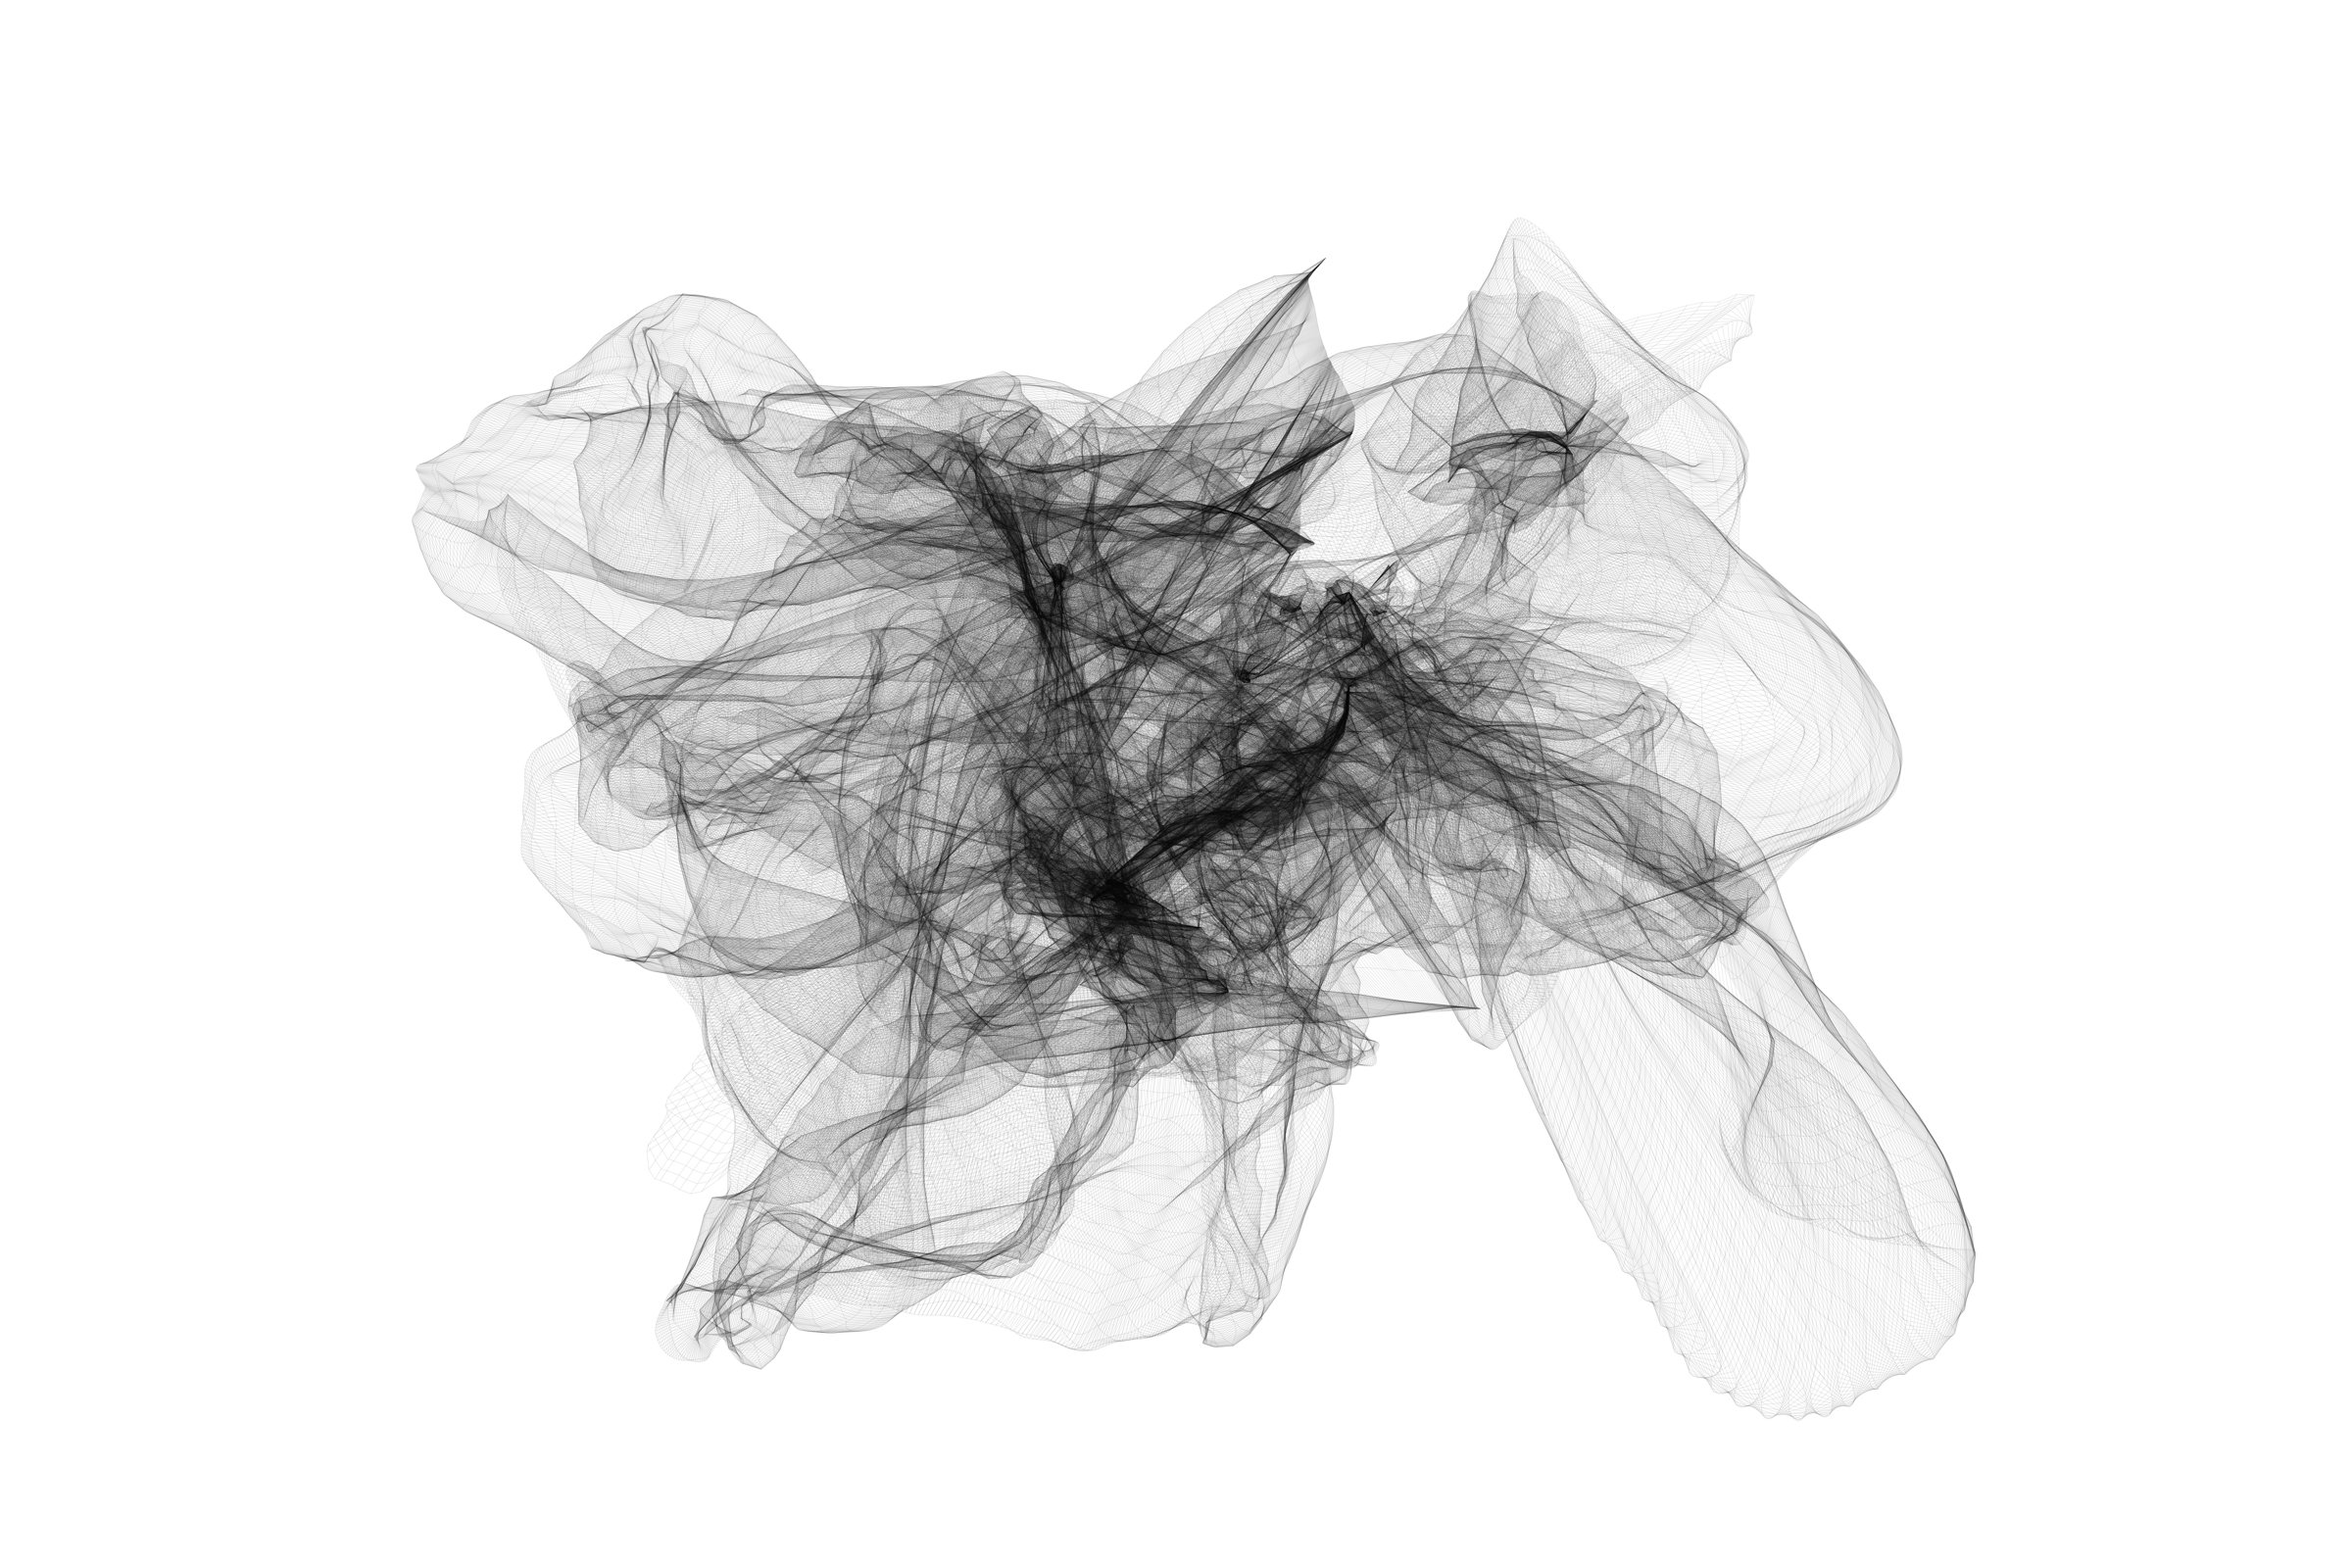
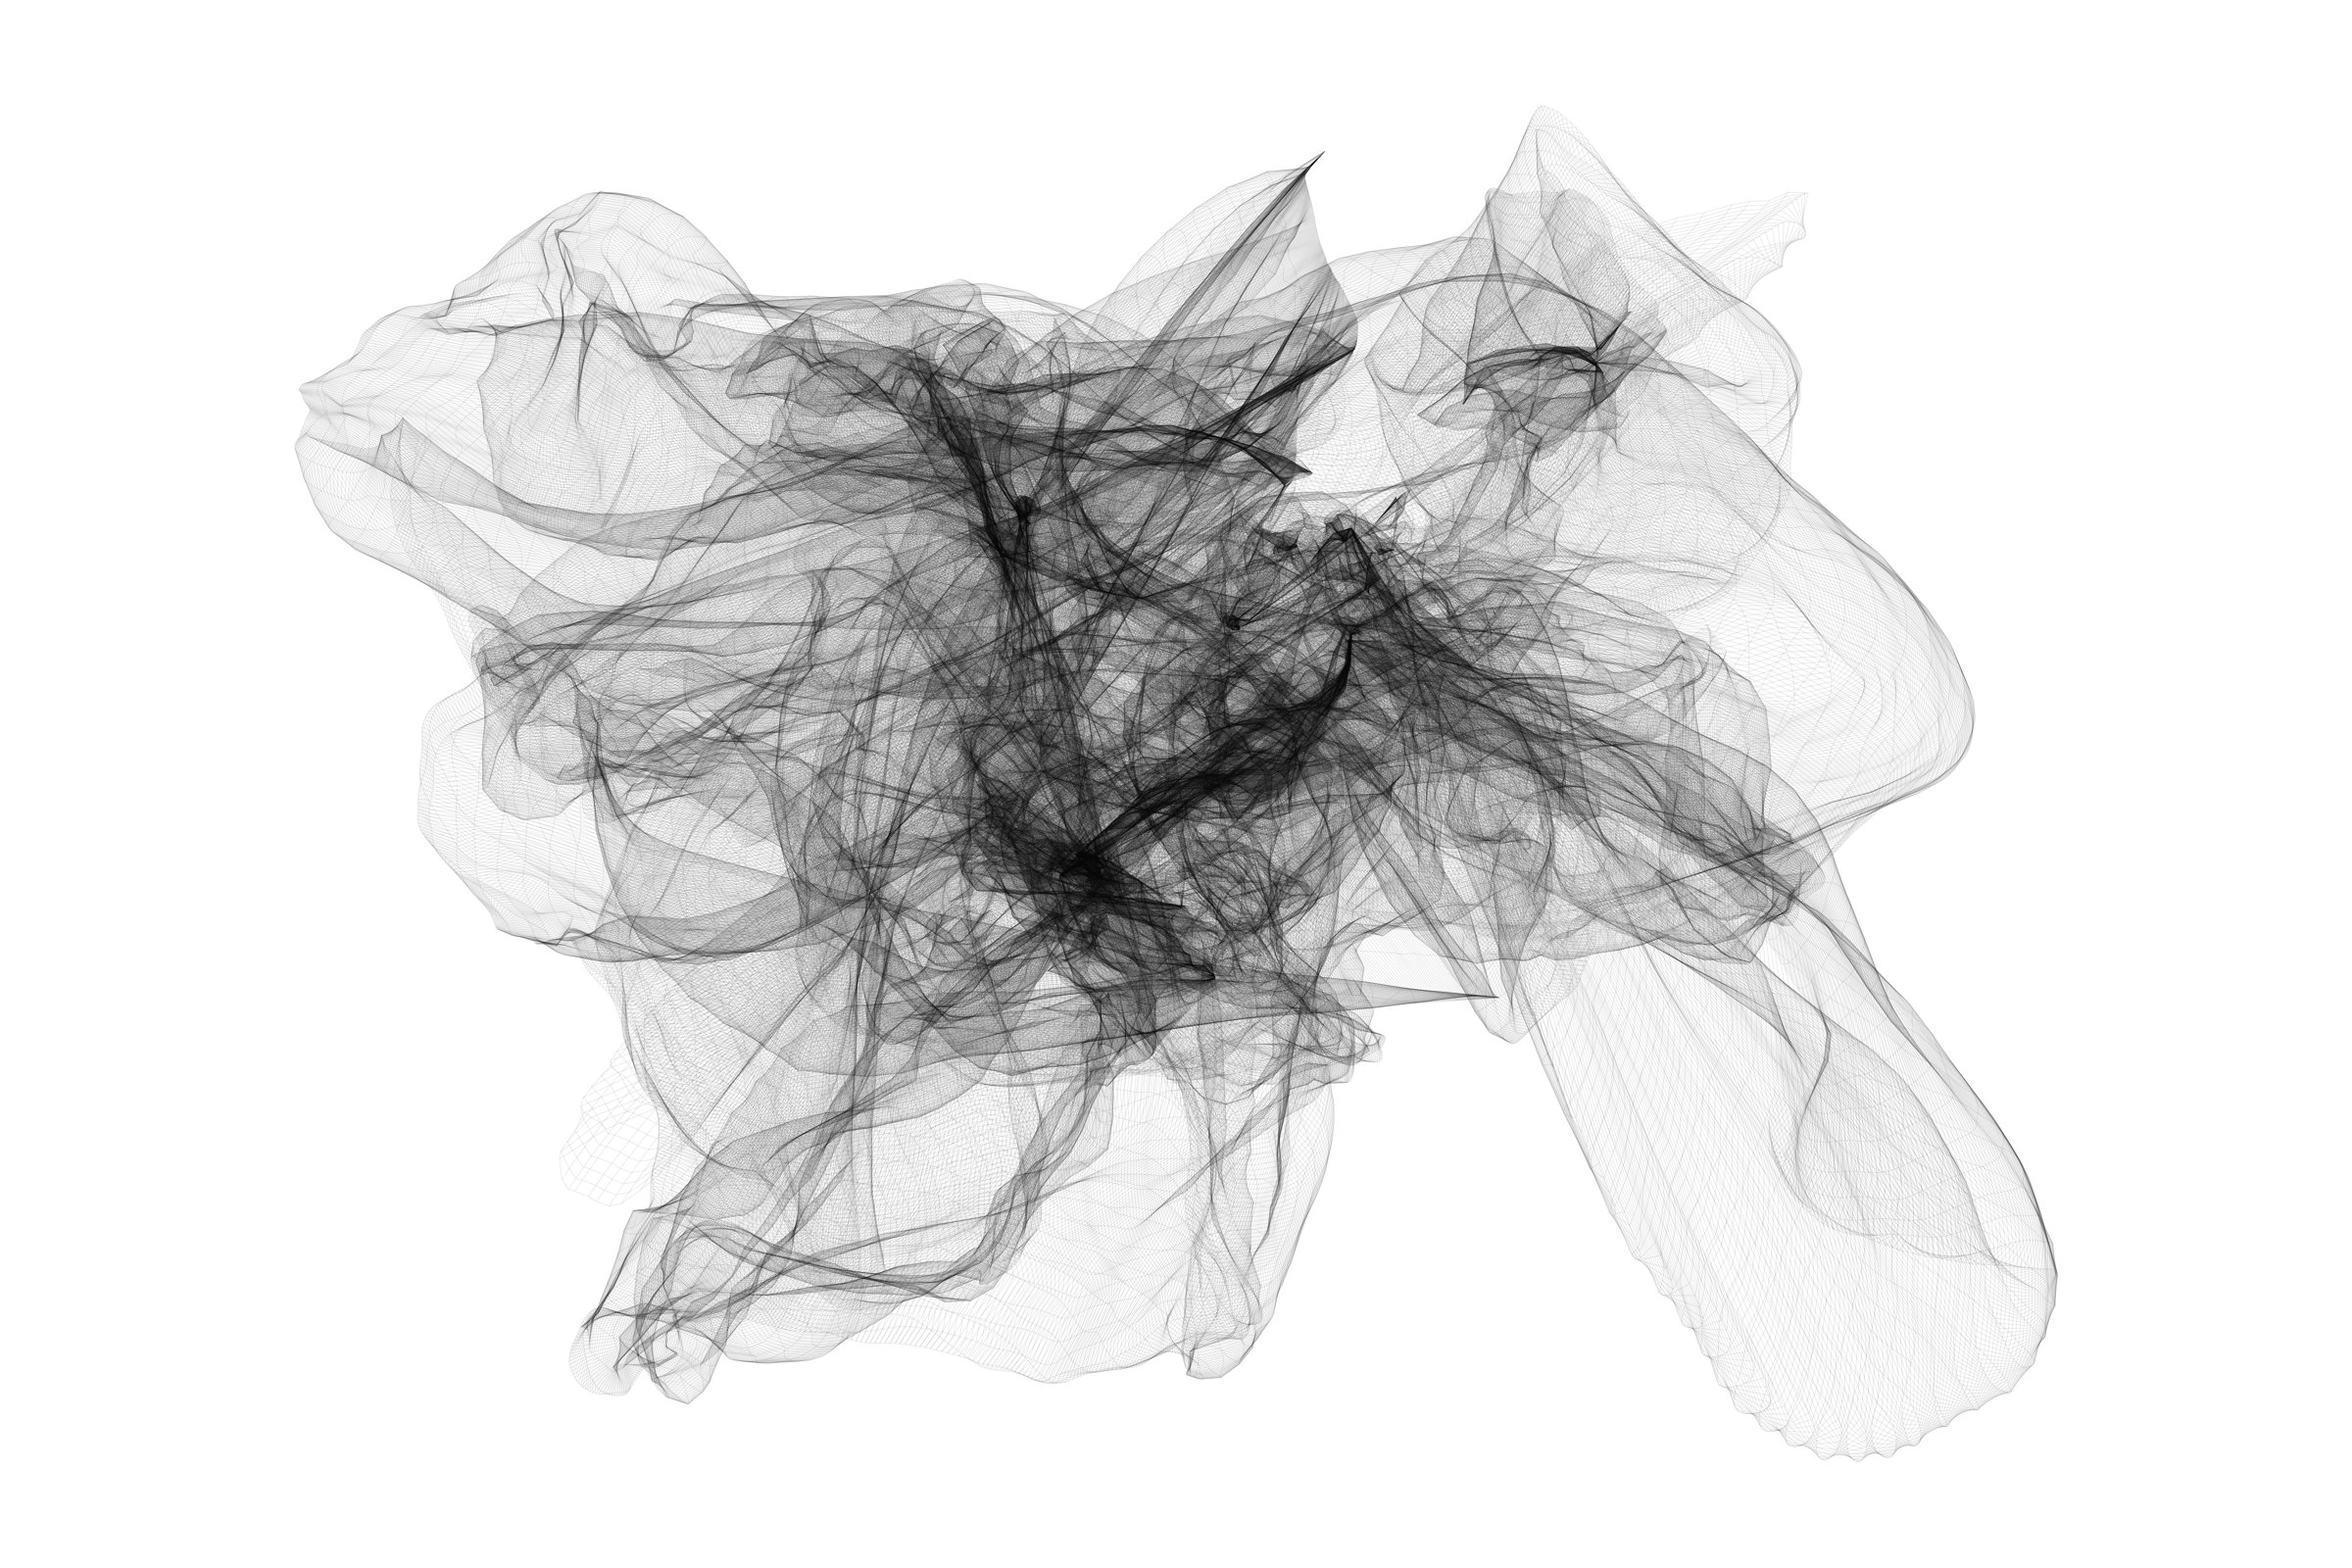
feat(site): show the featured entry's image in the homepage spotlight
A smaller copy sits beside the text on desktop and above it on phones.
The black-on-white blend moves to a shared .art-on-white class. The
neuron web copy is cropped closer to the drawing. SITE-O (Post image).

Claude-Session: https://claude.ai/code/session_016qi75wsrCRGnxb8ekPACWs

diff --git a/src/lib/spotlight.ts b/src/lib/spotlight.ts
@@ -1,3 +1,4 @@
+import type { ImageMetadata } from 'astro';
 import { getCollection } from 'astro:content';
 import { getPosts } from './writing';
 import { getActions, petitionHref } from './actions';
@@ -10,6 +11,7 @@ export interface Spotlight {
   description: string;
   pubDate: Date;
   petition?: { slug: string; statement?: string };
+  image?: { src: ImageMetadata; invert_in_dark: boolean };
 }
 
 /**
@@ -30,6 +32,7 @@ export async function getSpotlight(): Promise<Spotlight | undefined> {
       title: p.data.title,
       description: p.data.description,
       pubDate: p.data.pubDate,
+      image: p.data.image,
     })),
     ...actions.filter((a) => a.data.featured).map((a) => ({
       label: 'Petition',
@@ -38,6 +41,7 @@ export async function getSpotlight(): Promise<Spotlight | undefined> {
       description: a.data.description,
       pubDate: a.data.pubDate,
       petition: { slug: a.data.petition, statement: a.data.petition_statement },
+      image: a.data.image,
     })),
     ...resources.filter((r) => r.data.featured).map((r) => ({
       label: 'Resource',

diff --git a/src/styles/global.css b/src/styles/global.css
@@ -241,3 +241,15 @@ th {
   }
 }
 :root[data-motion="reduce"] { scroll-behavior: auto; }
+
+/* Black art on a white background (a post image with invert_in_dark): blend the
+   white into whatever surface it sits on, and invert it in the dark theme, as
+   the SVG wallpapers do, so it reads against dark. */
+.art-on-white {
+  mix-blend-mode: multiply;
+}
+
+[data-theme="dark"] .art-on-white {
+  filter: invert(1);
+  mix-blend-mode: screen;
+}

diff --git a/docs/v1.0.0-roadmap.md b/docs/v1.0.0-roadmap.md
@@ -184,12 +184,13 @@ Third-party images (Pixabay and similar) keep their own licences, not the site's
 
 ### SITE-O. Post image
 
-**Status**: `done` (`80bc8ea`)
+**Status**: `done` (`80bc8ea`, spotlight in the commit after `6fd41e0`)
 
-A post or petition can carry one image, shown under the byline with its credit. First use: the self-improvement pledge with the `neurons-brain-cells-abstract` candidate. The spotlight, og:image and the stock library stay with the post-images design draft.
+A post or petition can carry one image, shown under the byline with its credit. First use: the self-improvement pledge with the `neurons-brain-cells-abstract` candidate. og:image and the stock library stay with the post-images design draft.
 
 - [x] Optional `image` frontmatter (`src`, `alt`, `credit`) on writing and petitions; `PostArticle` renders it as a figure under the byline
 - [x] Pledge uses the neuron image; `/credits` lists it; the candidate record moves to `used`
+- [x] The homepage spotlight shows a smaller copy of the featured entry's image: right of the text on desktop, above it on phones
 
 ---
 
